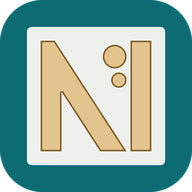
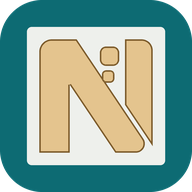
Icône : N épaissi, pièces emboîtées, angles et arrondis — version 1.0.4
Claude-Session: https://claude.ai/code/session_01AmLjCgWrav5f2Pdvvzoxwj

Changed region(s): [[0.1875, 0.1875, 0.8125, 0.8125]]

diff --git a/app.js b/app.js
@@ -1,7 +1,7 @@
 /* Nestor — Copyright (C) 2026 Macr0b — AGPL-3.0-or-later (voir LICENSE). */
 /* Nestor — application installable.
    À chaque nouvelle version, changer APP_VERSION ici ET VERSION dans sw.js. */
-var APP_VERSION = "1.0.3";
+var APP_VERSION = "1.0.4";
 
 (function(){
   "use strict";

diff --git a/sw.js b/sw.js
@@ -1,6 +1,6 @@
 /* Service worker : fonctionnement hors ligne et mises à jour.
    À chaque nouvelle version, changer VERSION ci-dessous ET dans app.js. */
-const VERSION = "1.0.3";
+const VERSION = "1.0.4";
 const CACHE = "nestor-" + VERSION;
 const FILES = [
   "./",

diff --git a/LISEZMOI.md b/LISEZMOI.md
@@ -3,7 +3,7 @@
 Imbrication de pièces DXF, SVG et AI sur des panneaux, avec export SVG et DXF.
 Fonctionne hors connexion, en 45 langues, sur Mac, Windows, Linux, iPhone, iPad et Android.
 
-Version : 1.0.3
+Version : 1.0.4
 
 ## 1. Mettre l'application en ligne (une seule fois)
 
